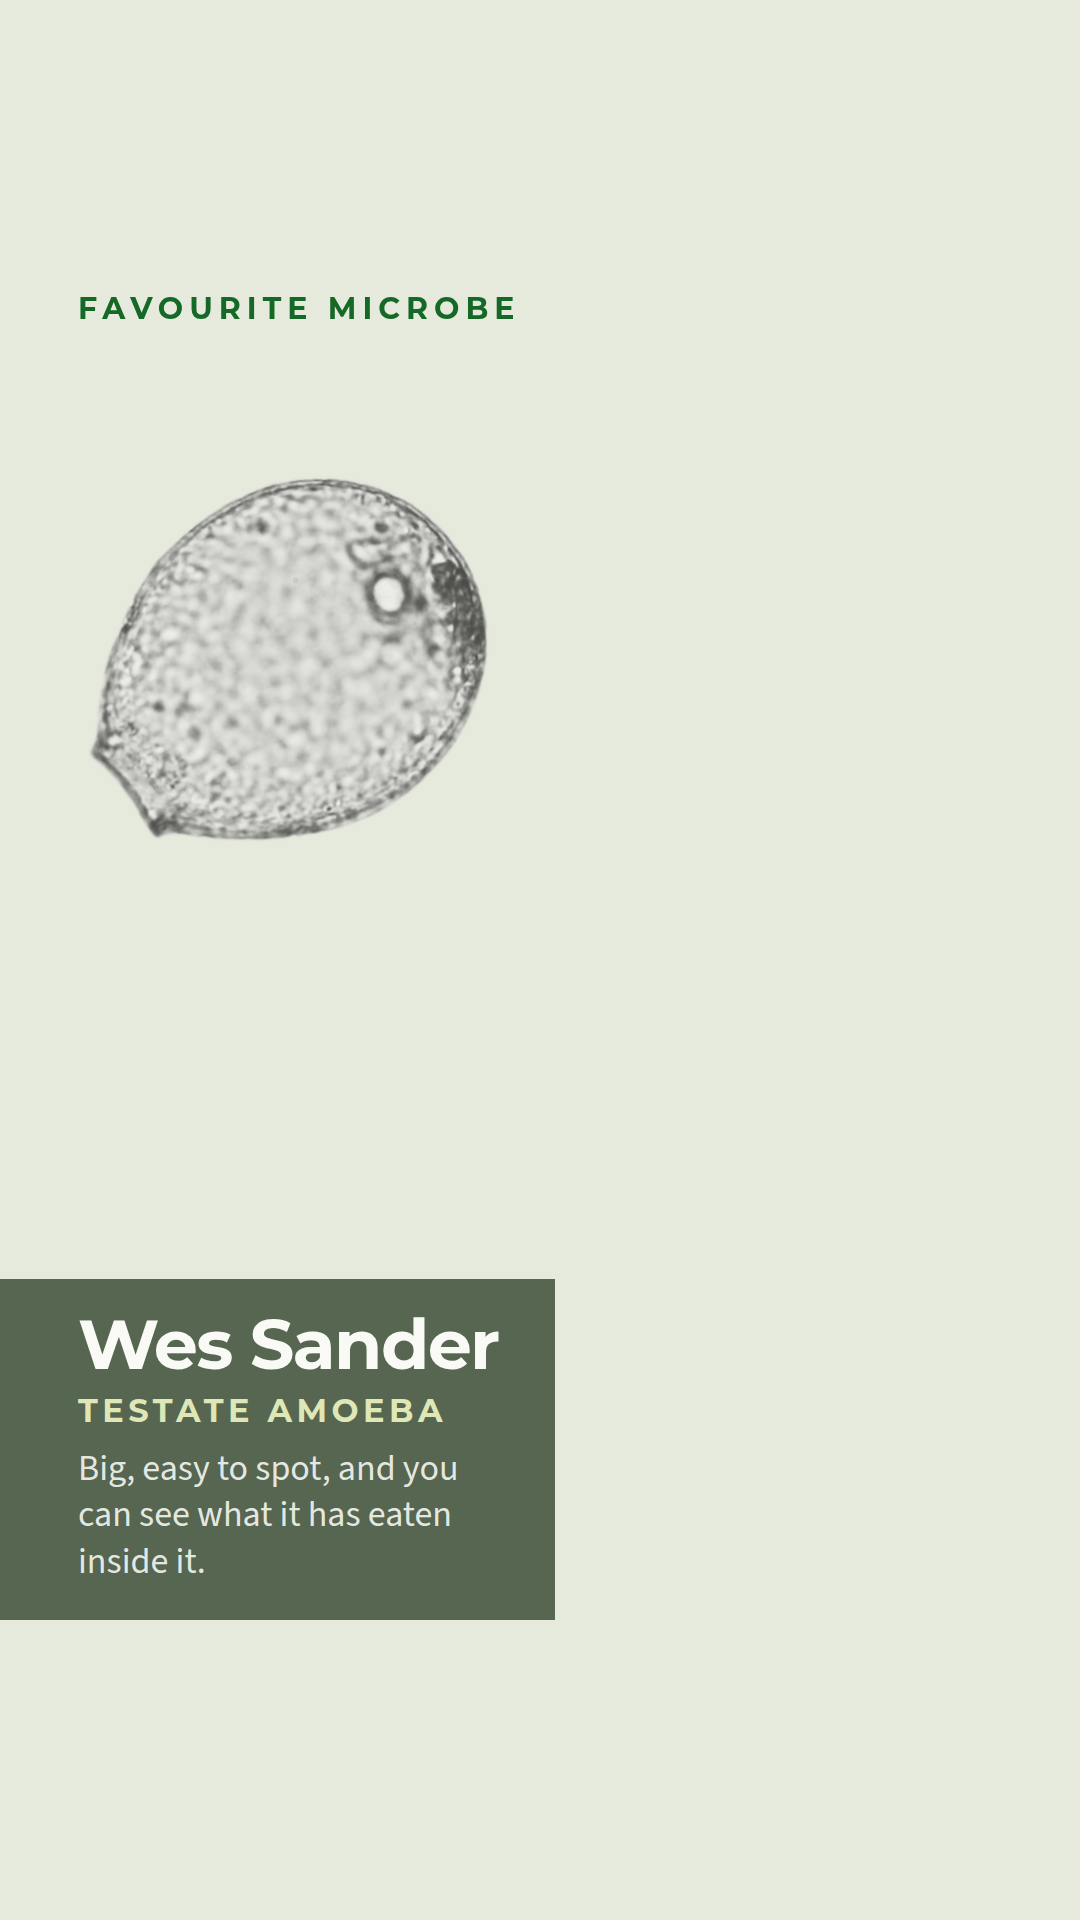
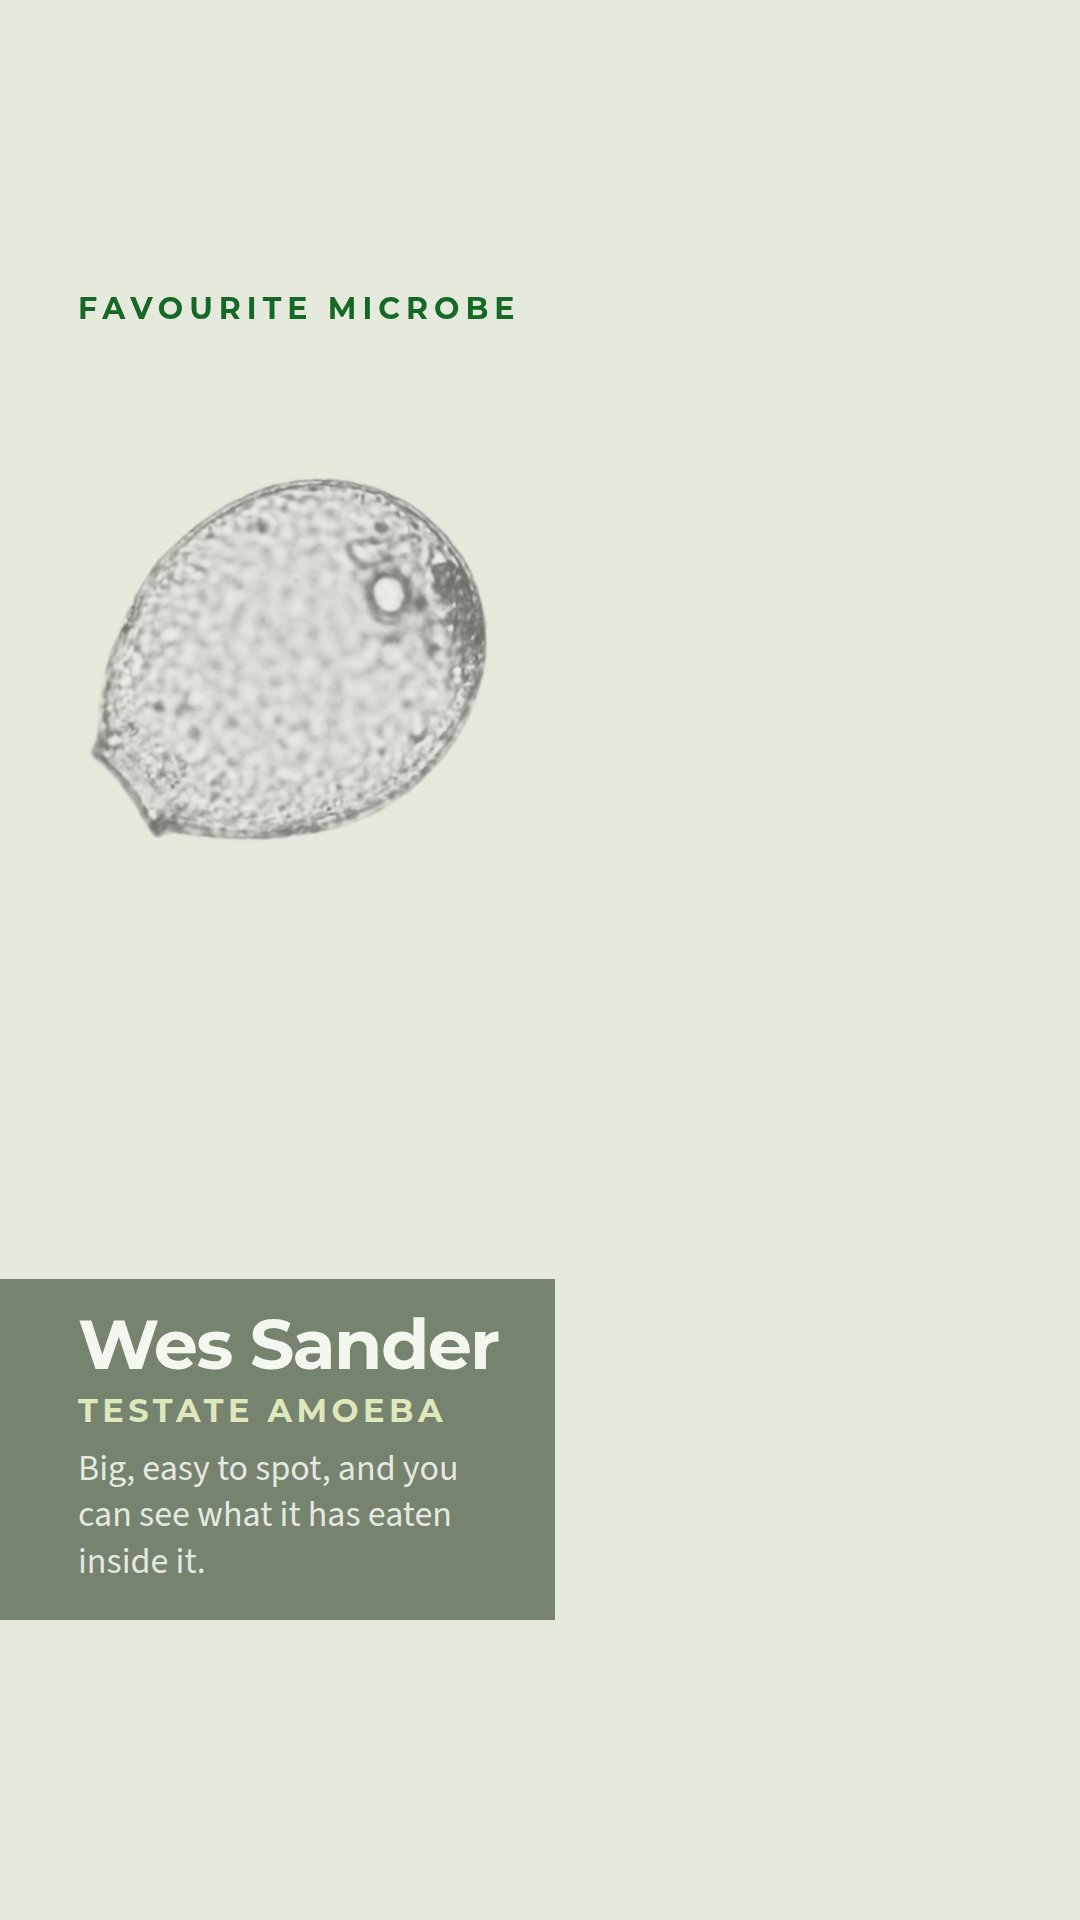
Regenerate the Drive package with the quote cards
review/ now carries 66 images across seven sets. The render script and the
index builder both know about variants/quotes, so the quote cards land in
their own folder rather than in the graduate set.

Claude-Session: https://claude.ai/code/session_012qx7jsyEzBGyK7dvjjht4u

Changed region(s): [[0.0, 0.6562, 0.5194, 0.8438], [0.3361, 0.2812, 0.4583, 0.375], [0.1222, 0.4062, 0.1528, 0.4375]]

diff --git a/review/index.html b/review/index.html
@@ -31,4 +31,4 @@ footer{padding:30px 32px;background:var(--panel);border-top:1px solid var(--line
  font-size:14px;color:#6b6560}
 footer b{color:var(--soil)}
 @media(max-width:640px){header,main,footer{padding-left:18px;padding-right:18px}}
-</style><header><h1>Social assets for review</h1><p>Six sets of draft social posts, rendered at full export size. Open a set, then click any image to download the PNG. Captions, hashtags and the source behind every number are in the captions file linked inside each set.</p><p class="meta">63 images &middot; all 1080px wide &middot; generated 17 September 2026</p></header><main><div class="setlist"><a class="set" href="1-graduate-celebration/index.html"><h3>Graduate celebration: Sandra Niggemeyer</h3><p>Her field trial in Van, Texas.</p><span class="n">27 images</span></a><a class="set" href="2-umass-amherst/index.html"><h3>UMass Amherst community post</h3><p>Five carousel slides at 4:5, three story frames at 9:16, two square alternates.</p><span class="n">10 images</span></a><a class="set" href="3-scholarships/index.html"><h3>Scholarship announcement</h3><p>Seven slides at 4:5.</p><span class="n">7 images</span></a><a class="set" href="4-india-tour/index.html"><h3>India tour</h3><p>Three posts: the invitation carousel, the rice-wheat science carousel, and a story frame with an attendees card.</p><span class="n">12 images</span></a><a class="set" href="5-templates/index.html"><h3>Reusable templates</h3><p>Myth, checklist and microbe layouts.</p><span class="n">3 images</span></a><a class="set" href="6-motion-stills/index.html"><h3>Motion pieces (still frames)</h3><p>One frame each from four animated HTML pages at 9:16.</p><span class="n">4 images</span></a></div></main><footer><p><b>Before anything is scheduled:</b> every dashed box is a placeholder for an asset or a fact we do not hold yet, every name or face on a graphic needs written consent first, and none of the copy is approved.</p></footer>
+</style><header><h1>Social assets for review</h1><p>Six sets of draft social posts, rendered at full export size. Open a set, then click any image to download the PNG. Captions, hashtags and the source behind every number are in the captions file linked inside each set.</p><p class="meta">66 images &middot; all 1080px wide &middot; generated 17 September 2026</p></header><main><div class="setlist"><a class="set" href="1-graduate-celebration/index.html"><h3>Graduate celebration: Sandra Niggemeyer</h3><p>Her field trial in Van, Texas.</p><span class="n">27 images</span></a><a class="set" href="2-umass-amherst/index.html"><h3>UMass Amherst community post</h3><p>Five carousel slides at 4:5, three story frames at 9:16, two square alternates.</p><span class="n">10 images</span></a><a class="set" href="3-scholarships/index.html"><h3>Scholarship announcement</h3><p>Seven slides at 4:5.</p><span class="n">7 images</span></a><a class="set" href="4-india-tour/index.html"><h3>India tour</h3><p>Three posts: the invitation carousel, the rice-wheat science carousel, and a story frame with an attendees card.</p><span class="n">12 images</span></a><a class="set" href="5-templates/index.html"><h3>Reusable templates</h3><p>Myth, checklist and microbe layouts.</p><span class="n">3 images</span></a><a class="set" href="7-quote-cards/index.html"><h3>Quote cards</h3><p>Lines from the phrase bank, set as cards.</p><span class="n">3 images</span></a><a class="set" href="6-motion-stills/index.html"><h3>Motion pieces (still frames)</h3><p>One frame each from four animated HTML pages at 9:16.</p><span class="n">4 images</span></a></div></main><footer><p><b>Before anything is scheduled:</b> every dashed box is a placeholder for an asset or a fact we do not hold yet, every name or face on a graphic needs written consent first, and none of the copy is approved.</p></footer>

diff --git a/review/7-quote-cards/index.html b/review/7-quote-cards/index.html
@@ -1,0 +1,34 @@
+<!doctype html><meta charset="utf-8"><title>Quote cards</title><meta name="viewport" content="width=device-width,initial-scale=1"><style>
+:root{--green:#156826;--moss:#22371F;--panel:#F4F1EA;--ink:#333130;--soil:#4F3433;--line:#DED8CC}
+*{box-sizing:border-box}
+body{margin:0;background:#fff;color:var(--ink);
+ font:16px/1.55 -apple-system,BlinkMacSystemFont,"Segoe UI",Helvetica,Arial,sans-serif}
+header{background:var(--panel);border-bottom:1px solid var(--line);padding:38px 32px 30px}
+h1{margin:0 0 10px;font-size:29px;line-height:1.15;color:var(--moss);letter-spacing:-.01em}
+header p{margin:0;max-width:64ch;color:var(--soil)}
+.meta{margin-top:16px;font-size:14px;color:#6b6560}
+a.back{display:inline-block;margin-bottom:14px;font-size:14px;color:var(--green)}
+main{padding:0 32px 72px}
+section{padding:38px 0 6px;border-bottom:1px solid var(--line)}
+section:last-child{border-bottom:0}
+h2{margin:0 0 5px;font-size:20px;color:var(--green)}
+.ct{font-size:13px;color:#8a837c;font-weight:400;margin-left:6px}
+.note{margin:0 0 20px;font-size:14px;color:#6b6560;max-width:72ch}
+.grid{display:grid;gap:22px;grid-template-columns:repeat(auto-fill,minmax(225px,1fr))}
+figure{margin:0}
+figure a{display:block;border:1px solid var(--line);background:var(--panel)}
+figure a:hover{border-color:var(--green)}
+img{display:block;width:100%;height:auto}
+figcaption{display:flex;justify-content:space-between;gap:8px;padding-top:7px;font-size:13px}
+.rt{color:#8a837c;font-variant-numeric:tabular-nums}
+.setlist{display:grid;gap:18px;grid-template-columns:repeat(auto-fill,minmax(310px,1fr));padding:34px 0 0}
+.set{border:1px solid var(--line);padding:20px 22px 22px;text-decoration:none;color:inherit;display:block}
+.set:hover{border-color:var(--green);background:var(--panel)}
+.set h3{margin:0 0 6px;font-size:18px;color:var(--green)}
+.set p{margin:0;font-size:14px;color:#6b6560}
+.set .n{display:block;margin-top:12px;font-size:13px;color:#8a837c}
+footer{padding:30px 32px;background:var(--panel);border-top:1px solid var(--line);
+ font-size:14px;color:#6b6560}
+footer b{color:var(--soil)}
+@media(max-width:640px){header,main,footer{padding-left:18px;padding-right:18px}}
+</style><header><a class="back" href="../index.html">&larr; all sets</a><h1>Quote cards</h1><p>Lines from the phrase bank, set as cards. These are finished posts, not drafts.</p><p class="meta">3 images &middot; click any to download</p></header><main><section><div class="grid"><figure><a href="bunch-of-microbes.png" download><img src="bunch-of-microbes.png" loading="lazy" alt="bunch of microbes"></a><figcaption><span>bunch of microbes</span><span class="rt">1:1</span></figcaption></figure><figure><a href="failed-piles.png" download><img src="failed-piles.png" loading="lazy" alt="failed piles"></a><figcaption><span>failed piles</span><span class="rt">1:1</span></figcaption></figure><figure><a href="mycelium-shirt.png" download><img src="mycelium-shirt.png" loading="lazy" alt="mycelium shirt"></a><figcaption><span>mycelium shirt</span><span class="rt">1:1</span></figcaption></figure></div></section></main><footer><p><b>Before anything is scheduled:</b> every dashed box is a placeholder for an asset or a fact we do not hold yet, every name or face on a graphic needs written consent first, and none of the copy is approved.</p></footer>
